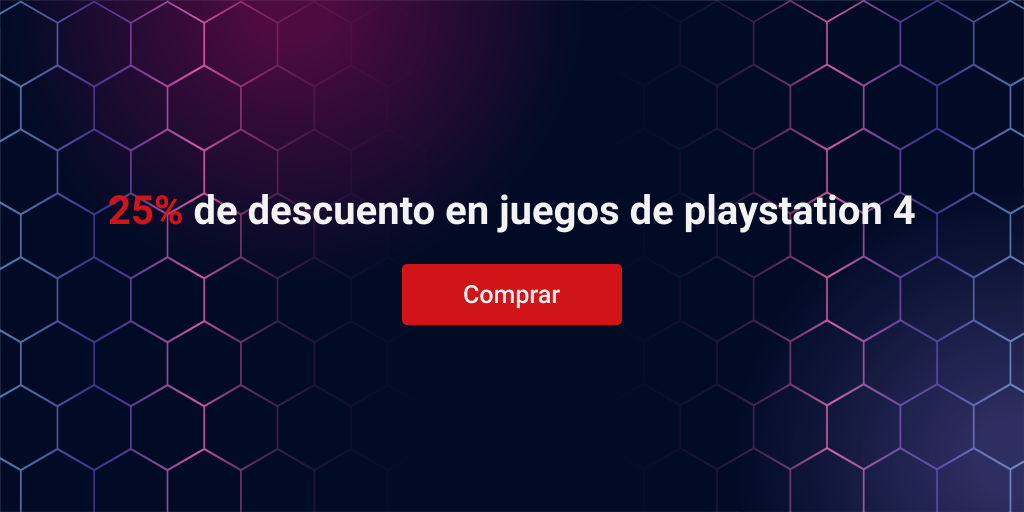
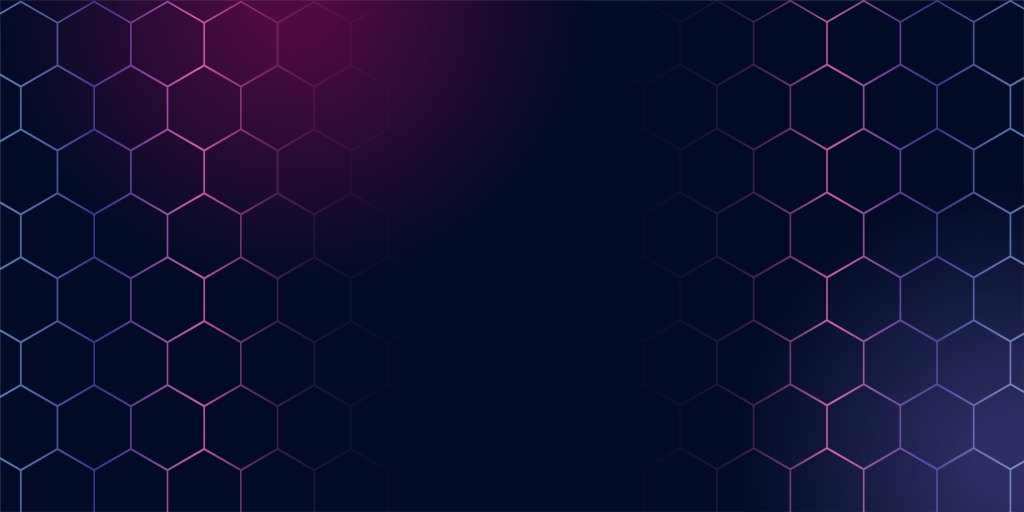
maquetando simulacro

Changed region(s): [[0.0938, 0.375, 0.9062, 0.4688], [0.375, 0.5, 0.625, 0.6562]]

diff --git a/index.html b/index.html
@@ -14,26 +14,105 @@
   <body>
     <header>
       <div class="headercontenedor">
-        <div class="headerleft">.</div>
-        <div class="headerright">5</div>
+        <div class="headerleft">
+          <img
+            src="../simulacroexamen/img/logoJoystick.png"
+            alt="Imagen Logo Joystick"
+          />
+          <h1>Game<span>Shop</span></h1>
+        </div>
+        <div class="headerright">
+          <nav>
+            <ul>
+              <li><a href="#">Categorías</a></li>
+              <li><a href="#">Ofertas</a></li>
+              <li><a href="#">Moda</a></li>
+              <li><a href="#">Favoritos</a></li>
+            </ul>
+          </nav>
+        </div>
       </div>
     </header>
     <main>
       <div class="maincontenedor">
-        <section class="hero">5</section>
-        <section class="mainprodest">f</section>
+        <section class="hero">
+          <h2>25% <span>de descuento en juegos de playstation 4</span></h2>
+          <div class="herobtn">
+            <h3>Comprar</h3>
+          </div>
+        </section>
+
+        <section class="mainprodest">
+          <h2>Productos Destacados</h2>
+          <div class="maintarge">
+            <div class="maintargedest">
+              <div class="targedesttop">
+                <img
+                  src="../simulacroexamen/img/imagen1.png"
+                  alt="Imagen detroit"
+                />
+              </div>
+              <div class="targedestbottom">
+                <h2>$3200</h2>
+                <h3>12 x $266,66 sin interés</h3>
+                <h6>Envío gratis</h6>
+              </div>
+            </div>
+            <div class="maintargedest">
+              <div class="targedesttop">
+                <img
+                  src="../simulacroexamen/img/imagen2.png"
+                  alt="Imagen Fifa 21"
+                />
+              </div>
+              <div class="targedestbottom">
+                <h2>$3200</h2>
+                <h3>12 x $266,66 sin interés</h3>
+                <h6>Envío gratis</h6>
+              </div>
+            </div>
+            <div class="maintargedest">
+              <div class="targedesttop">
+                <img
+                  src="../simulacroexamen/img/imagen3.png"
+                  alt="Imagen Mortal kombat"
+                />
+              </div>
+              <div class="targedestbottom">
+                <h2>$3200</h2>
+                <h3>12 x $266,66 sin interés</h3>
+                <h6>Envío gratis</h6>
+              </div>
+            </div>
+          </div>
+        </section>
+
         <section class="mainproestrella">r</section>
       </div>
     </main>
     <footer>
       <div class="footercontenedor">
-        <div class="footerleft">1</div>
-        <div class="footerright">5</div>
+        <div class="footertop">
+          <div class="footerleft">
+            <img
+              src="../simulacroexamen/img/logoJoystick.png"
+              alt="Imagen Logo Joystick"
+            />
+            <h2>Game<span>Shop</span></h2>
+          </div>
+          <div class="footerright">
+            <h3>Redes sociales</h3>
+            <div class="footersocial">
+              <i class="fab fa-twitter"></i>
+              <i class="fab fa-facebook-f"></i>
+              <i class="fab fa-instagram"></i>
+            </div>
+          </div>
+        </div>
+        <div class="footerbottom">
+          <h3>Todos los derechos reservados a FrontEnd</h3>
+        </div>
       </div>
-      <div class="footerbot">
-        <h3>Todos los derechos reservados a FrontEnd</h3>
-      </div>
-      tom
     </footer>
   </body>
 </html>
